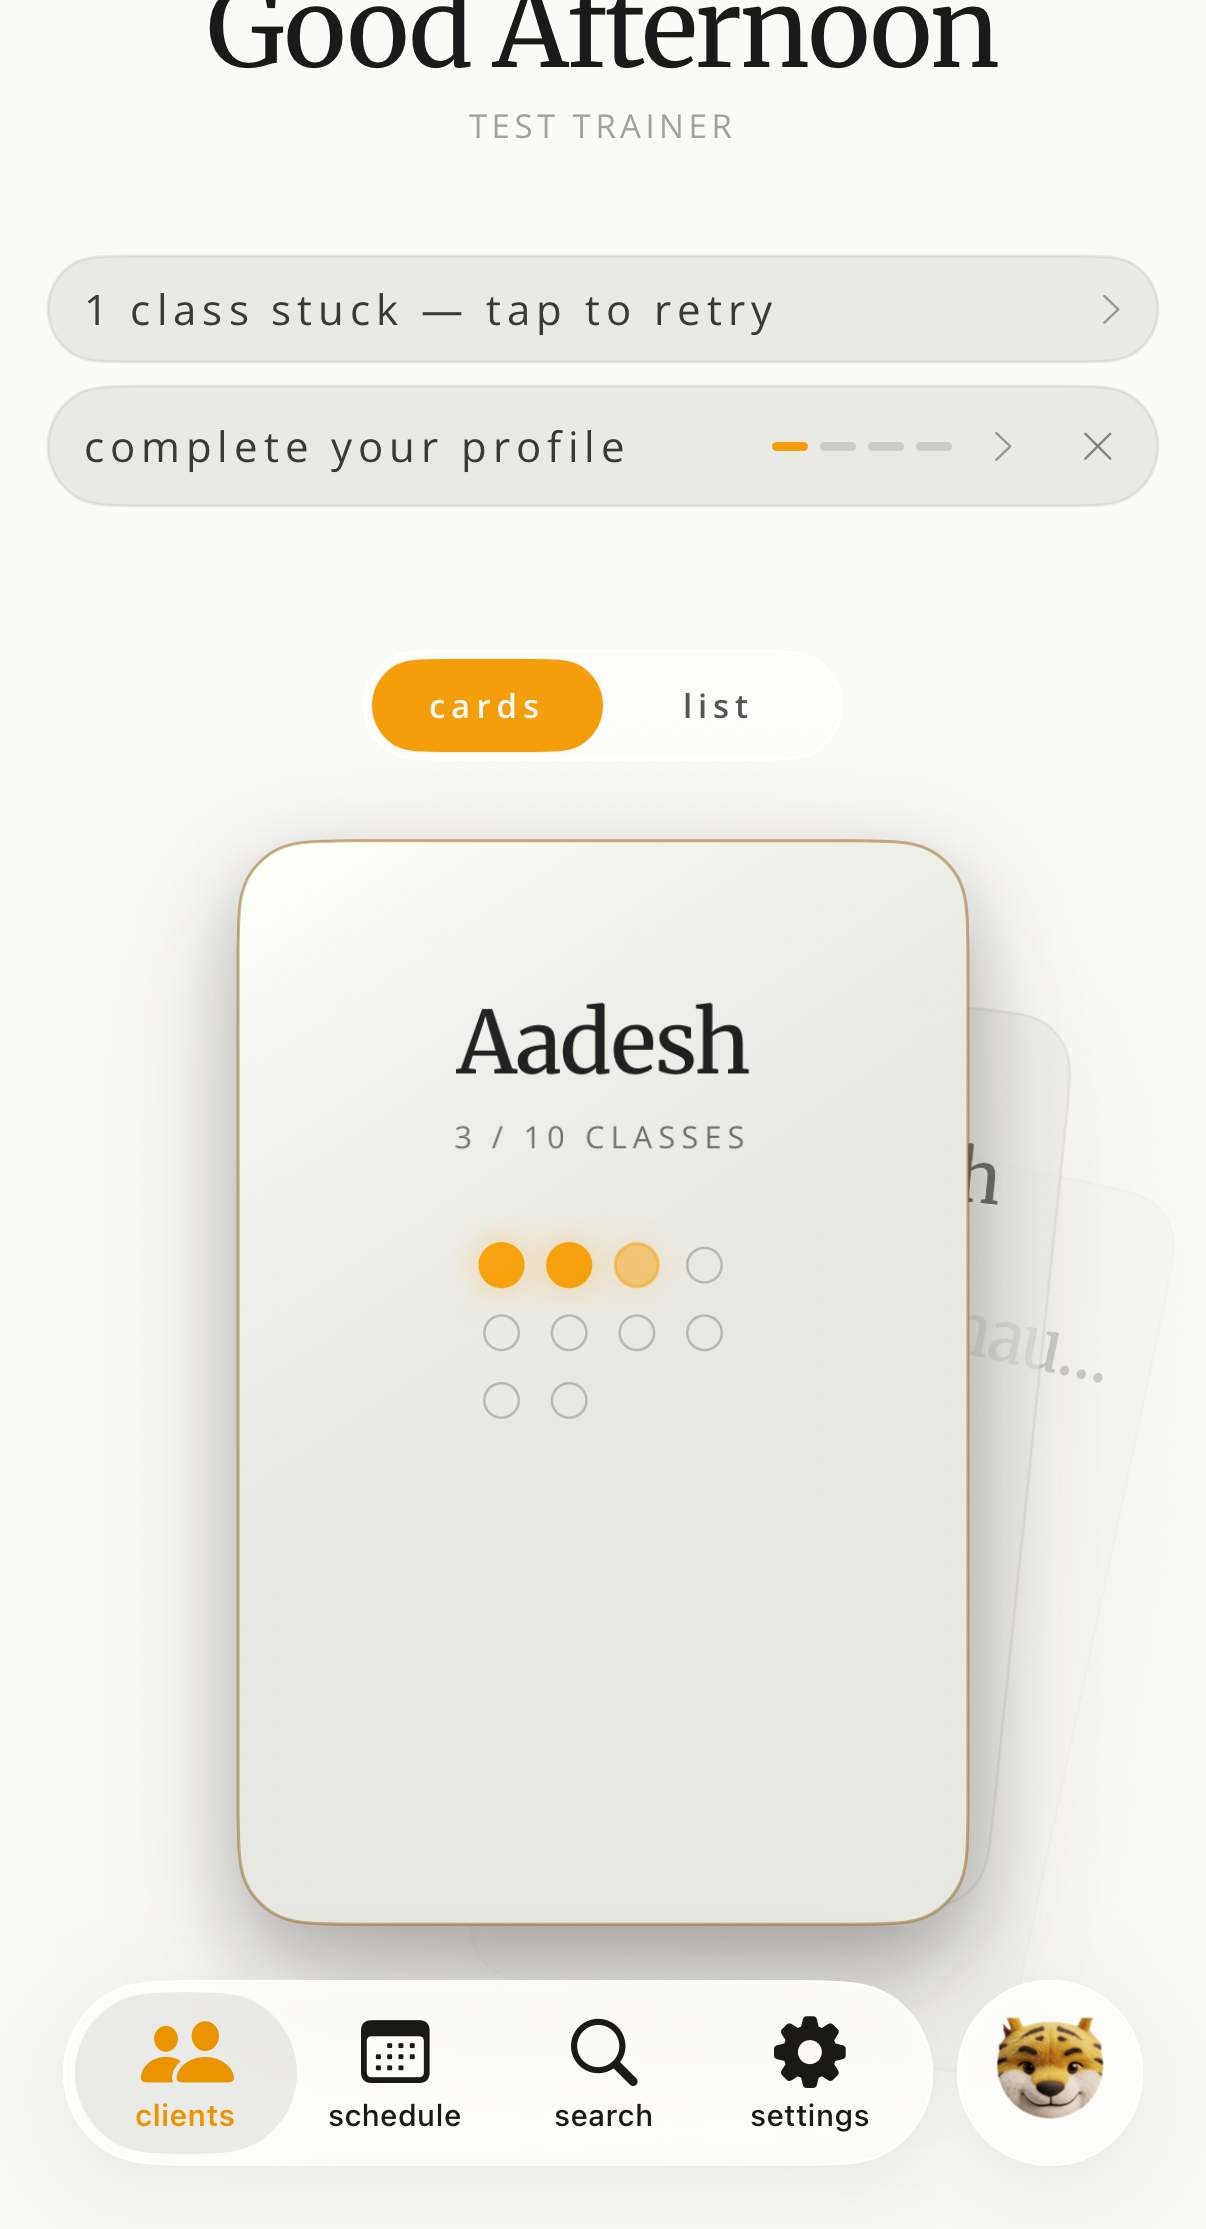
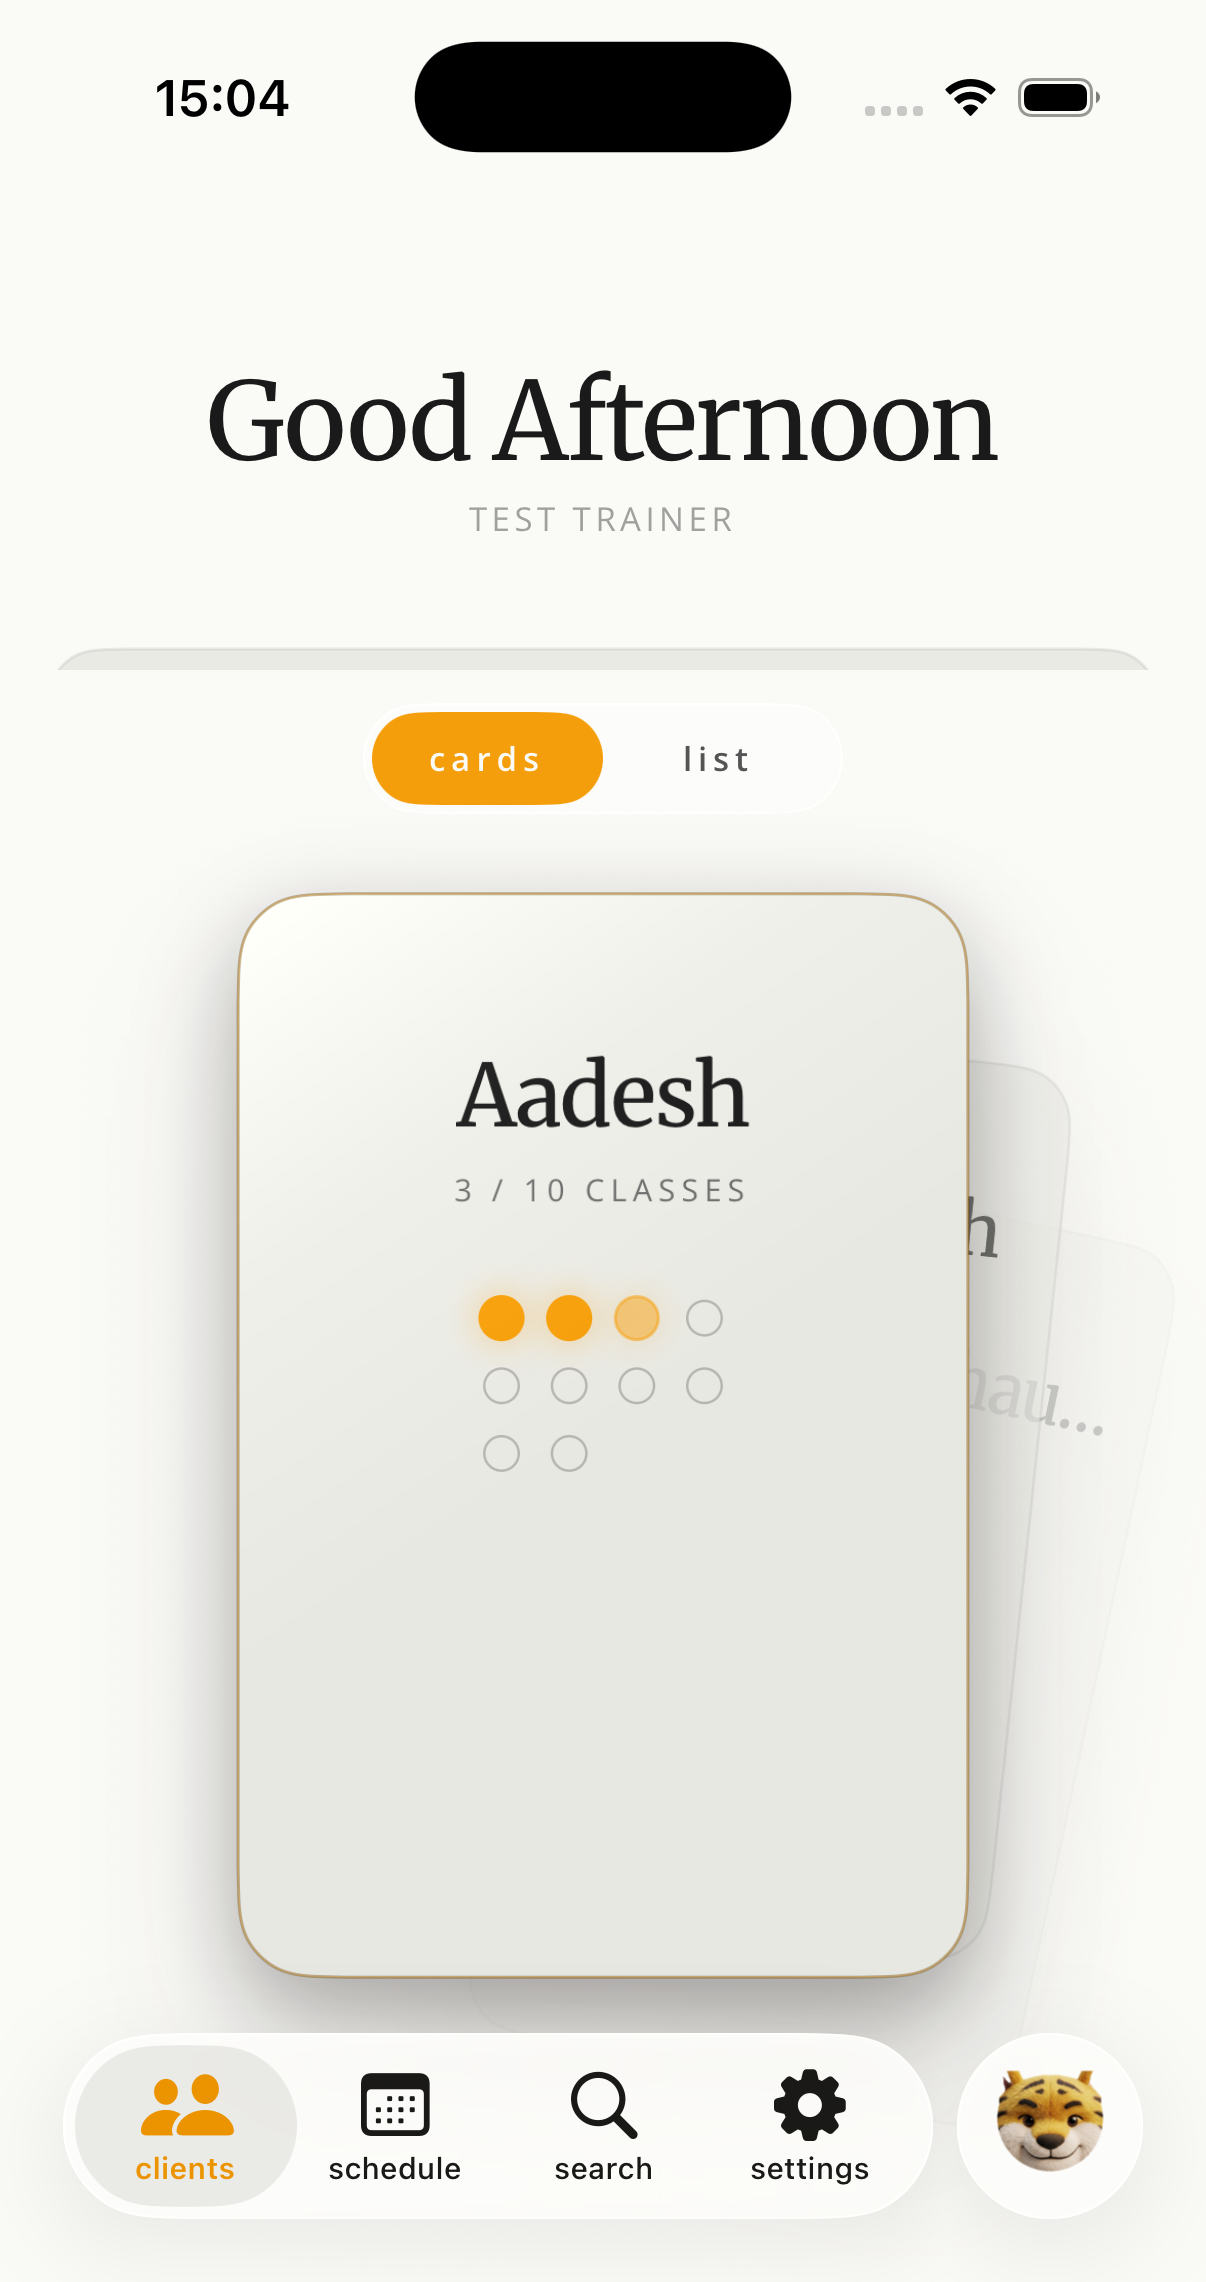
fix(landing): hero shows the clean dashboard, not the −1 balance shot
Fix-forward per marketer: drop the negative hero-02-who-owes (−1 classes) from the
hero front and use hero-01-dashboard instead, banner-stitched to remove the two
dismissible chrome banners (stuck-class + complete-profile) so just the
"Good Afternoon" greeting + the Aadesh 3/10 punch-card show. Removes the negative
from the founder's live view.

Frame stays the interim PIL frame for now — deferring the Pixeltrue angled-frame
pass until the designer's Forge-rendered screenshot set lands
(.screenshots/getgymbo-marketing-forge/), so the framing is done once on the final
set rather than wasted on the soon-to-be-replaced ios_dev batch.

Build clean; smoke green (10/10); verified hero at 1280.

diff --git a/src/App.tsx b/src/App.tsx
@@ -422,8 +422,8 @@ export default function App() {
                 style={{ transform: "rotateY(18deg) rotateZ(-5deg) translateX(34%) scale(.9)", zIndex: 1 }}
               />
               <DeviceFrame
-                src={SCREENS.heroWhoOwes}
-                alt="Gymbo — client balances at a glance"
+                src={SCREENS.dashboard}
+                alt="Gymbo — your client dashboard"
                 className={`relative w-[clamp(228px,27vw,272px)] ${prefersReduced ? "" : "hero-fade d6"}`}
                 style={{ transform: "rotateY(-13deg) rotateZ(3deg) translateX(-6%)", zIndex: 2 }}
               />
